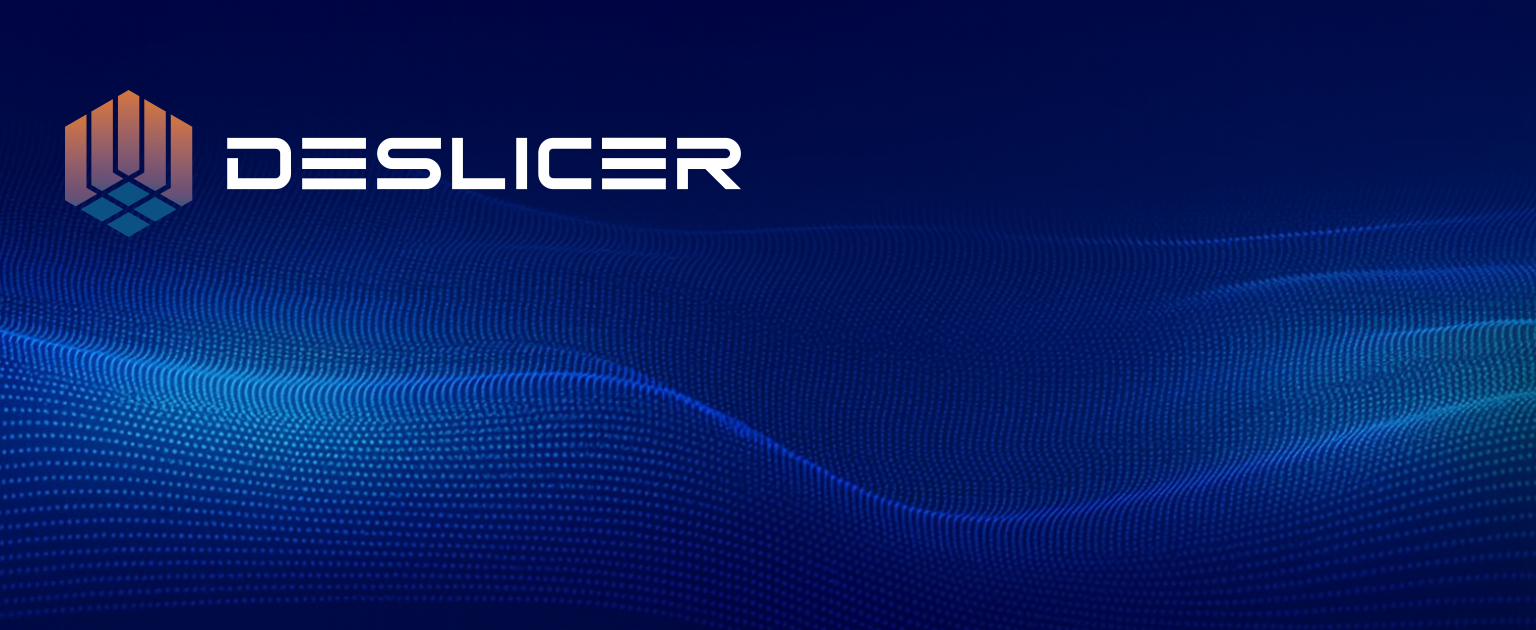
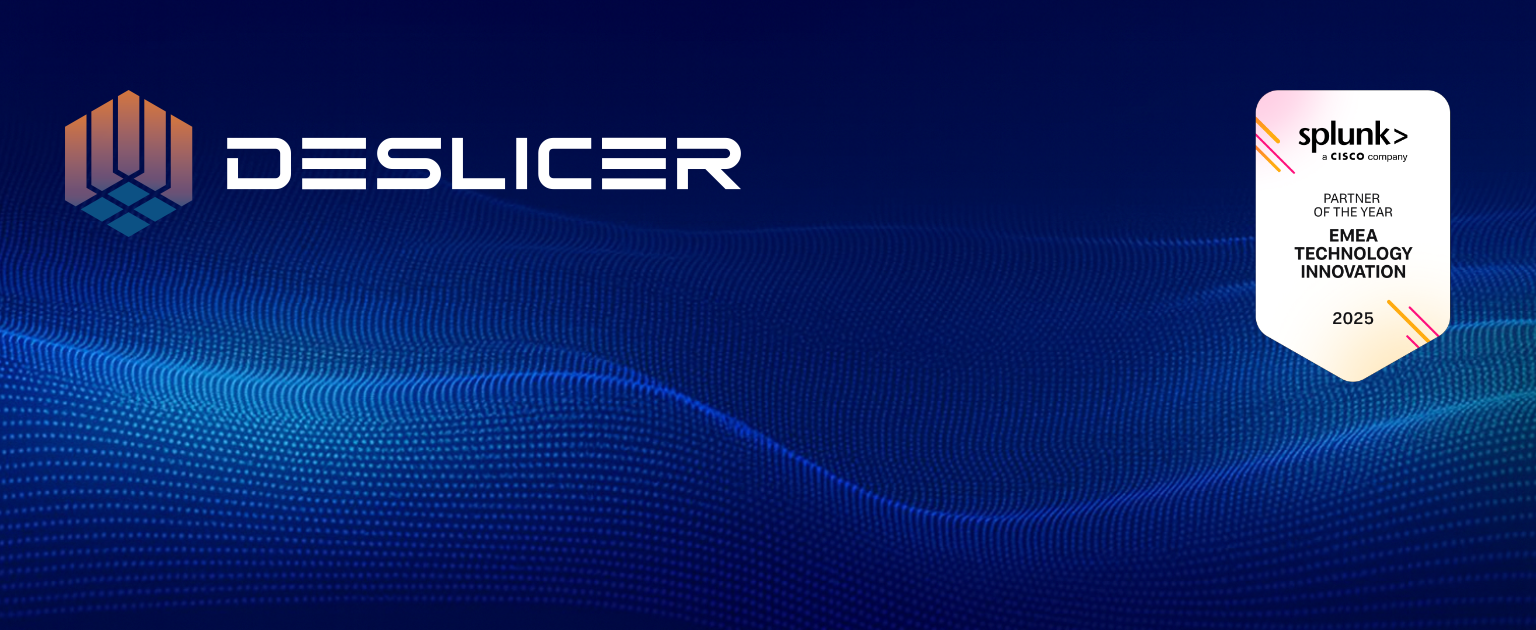
Splunk EMEA Innovation Technology Parter of the Year

Changed region(s): [[0.8125, 0.1206, 0.9688, 0.6032]]

diff --git a/profile/README.md b/profile/README.md
@@ -31,6 +31,22 @@ Our technology stack combines:
 
 Our solutions are trusted across **finance, manufacturing, telecom, fintech, and global enterprises** delivering consistency, security, and innovation at scale.
 
+---
+
+## 🏆 Recognition
+
+<table>
+  <tr>
+    <td width="200">
+      <img src="../media/splunk_emea_technology_innovation.png" alt="Splunk Partner of the Year Award 2025" width="200"/>
+    </td>
+    <td>
+      <p>We are proud to be recognized by <strong>Splunk</strong>, as:</p>
+      <p>👉 <strong>Splunk EMEA Technology Innovation Partner of the Year</strong></p>
+      <p>We are incrediby proud of this award and it really highlights our commitment to pushing the boundaries of technology and building solutions that redefine the future of automation.</p>
+    </td>
+  </tr>
+</table>
 
 ---
 
